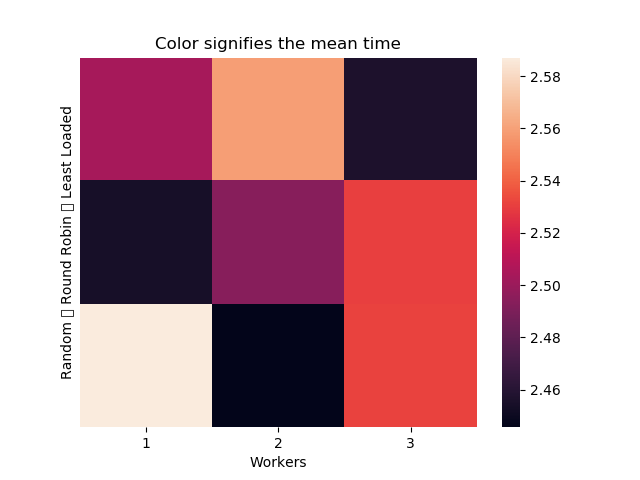
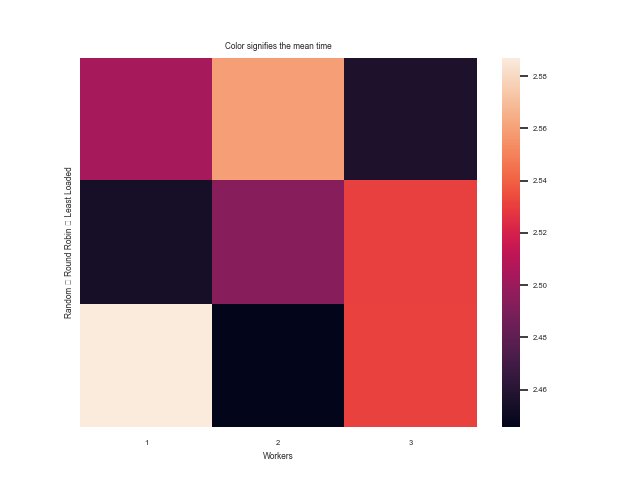
added heatmaps

diff --git a/analysis.py b/analysis.py
@@ -79,7 +79,7 @@ print(f"Metrics for {algorithm}\n")
 calcMetricsTask(logs)
 calcMetricsJob(j_logs)
 
-print(mean_logs.head())
+# print(mean_logs.head())
 plot_bar(mean_logs, 'worker','mean_time', algorithm)
 plot_bar(median_logs, 'worker', 'median_time', algorithm)
 
@@ -106,7 +106,7 @@ if ans.upper()=="Y":
 
 	new_logs = new_logs[['worker', 'task_id', 'R_time', 'RR_time','LL_time']]
 	mean_time = new_logs.groupby(['worker']).mean().reset_index()
-	# print(mean_time.head())
+	print(mean_time.head())
 
 	sns.heatmap(data=mean_time.iloc[:,1:], xticklabels=[1,2,3], yticklabels=False)
 	plt.xlabel("Workers")
